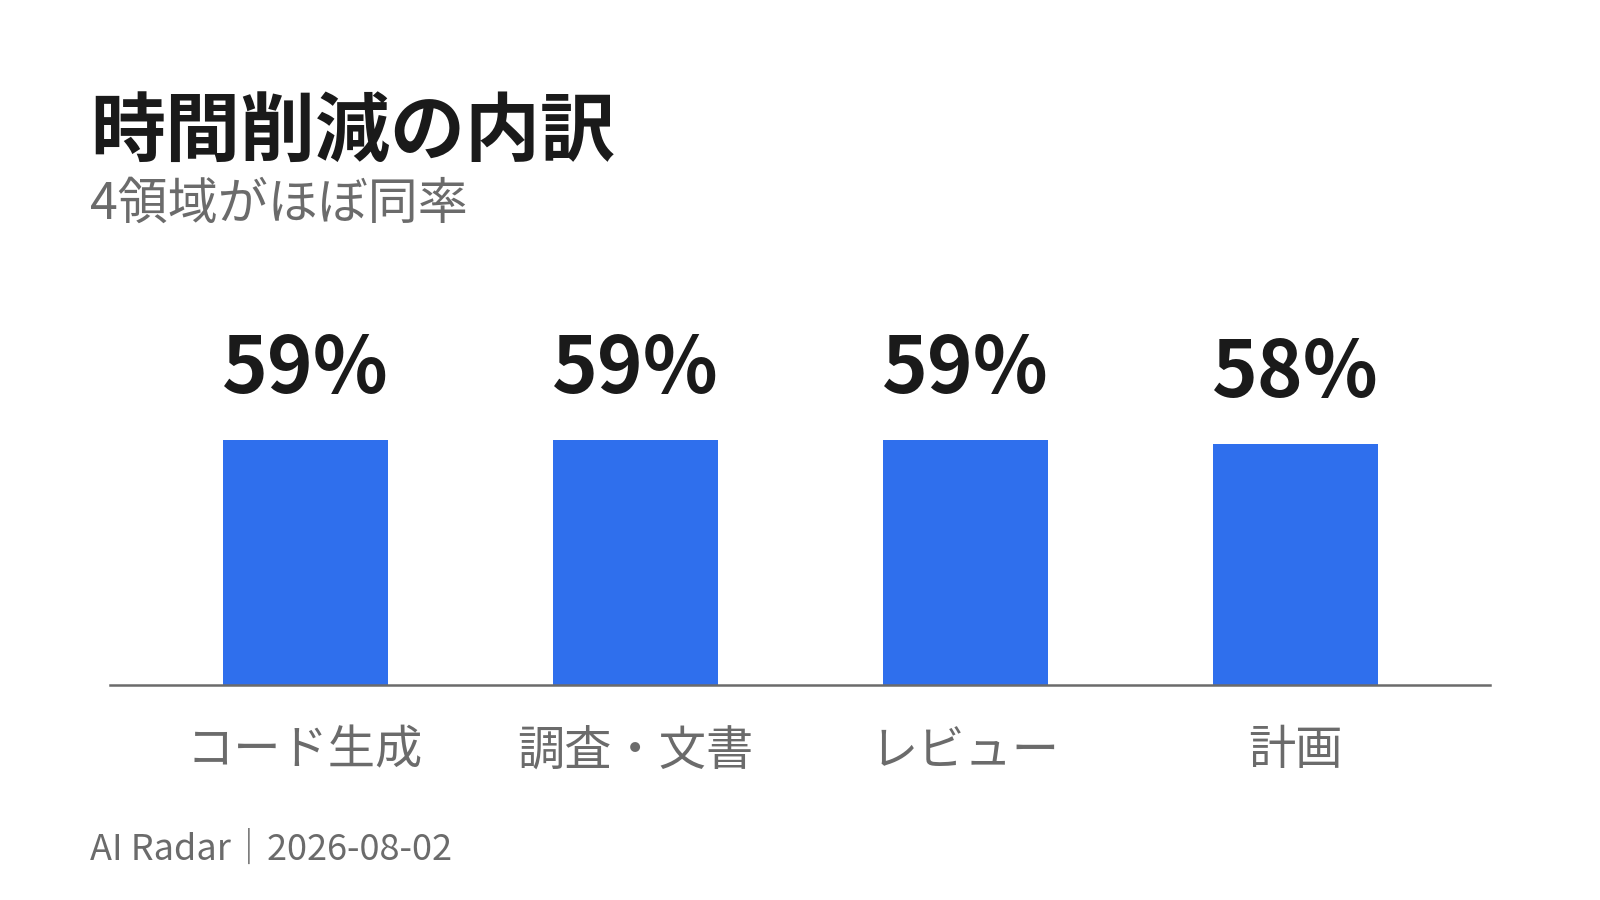
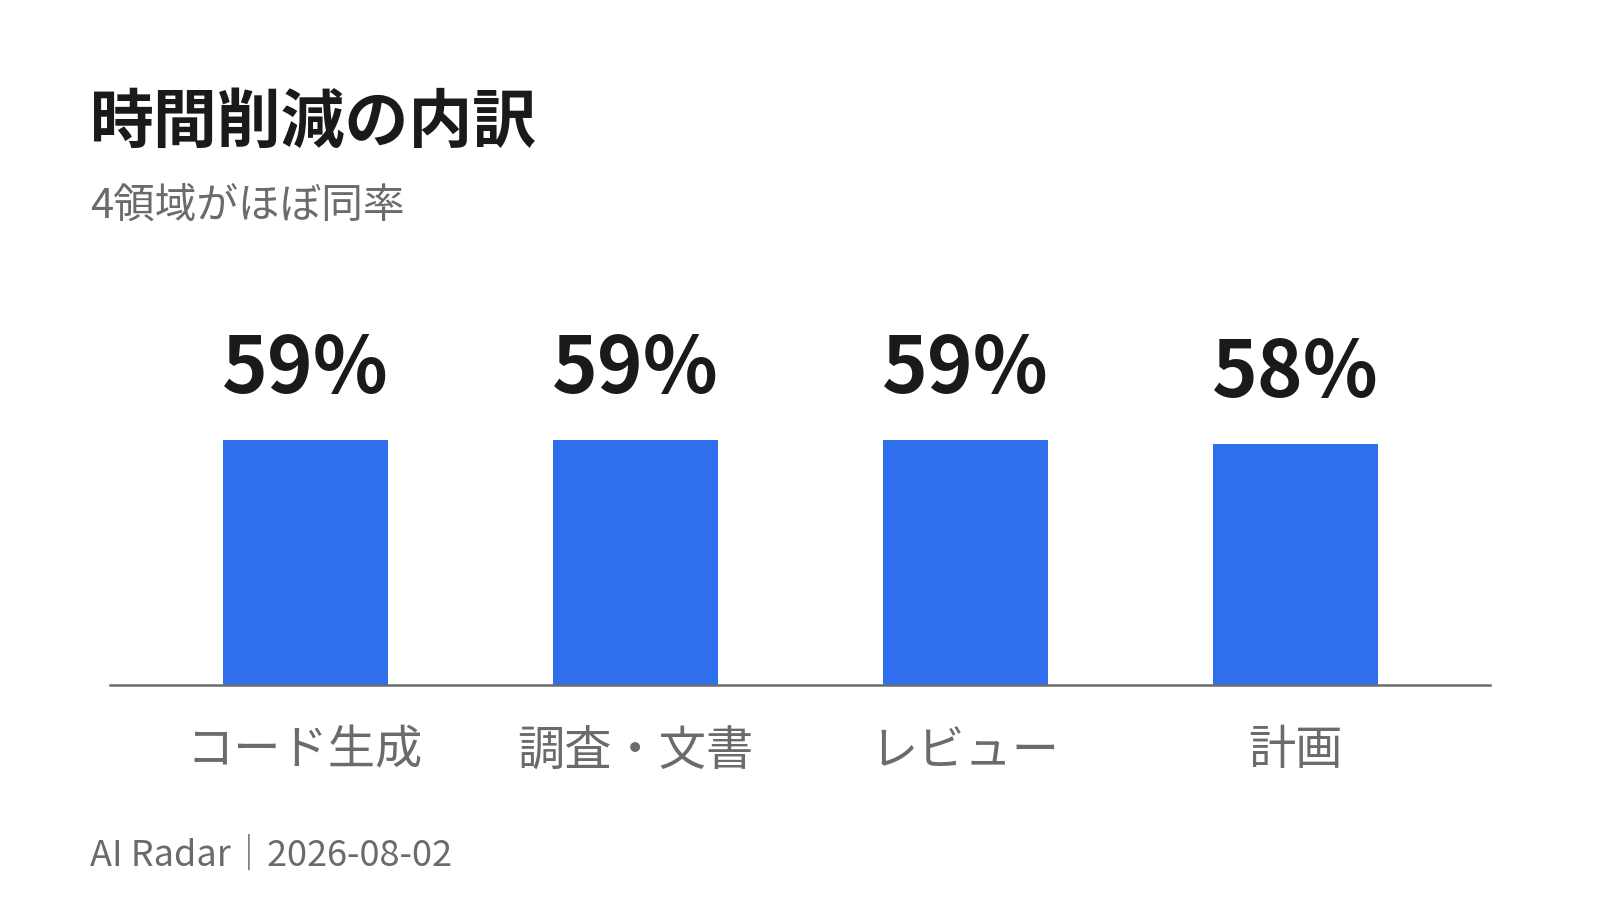
カード内の余白を実測ベースに変更し、収まらない場合は自動縮小するようにした

Changed region(s): [[0.0625, 0.0933, 0.4062, 0.2489], [0.0625, 0.9333, 0.2812, 0.9644]]

diff --git a/scripts/make_card.py b/scripts/make_card.py
@@ -66,8 +66,35 @@ REG = pick(FONT_CANDIDATES)
 BOLD = pick(BOLD_CANDIDATES)
 
 
+def put(fig, ax, x, y, s, fp, fs, color, va="top", ha="left"):
+    """テキストを置き、実際に描画された範囲を (下端, 上端) で返す。
+
+    余白を数値で決め打ちすると、文字サイズを変えたときに必ずズレる。
+    描画結果を測ってから次の要素を置くことで、間隔を確実に保つ。
+    軸は 0..W / 0..H・dpi=100 なので、データ座標1 = 1ピクセル。
+    """
+    t = ax.text(x, y, s, fontproperties=fp, fontsize=fs, color=color, va=va, ha=ha)
+    fig.canvas.draw()
+    bb = t.get_window_extent(renderer=fig.canvas.get_renderer())
+    inv = ax.transData.inverted()
+    y0 = inv.transform((bb.x0, bb.y0))[1]
+    y1 = inv.transform((bb.x1, bb.y1))[1]
+    return min(y0, y1), max(y0, y1)
+
+
+def measure(fig, ax, s, fp, fs):
+    """描画せずに文字の高さだけ測る（レイアウトを組む前の下見用）。"""
+    t = ax.text(-9999, -9999, s, fontproperties=fp, fontsize=fs)
+    fig.canvas.draw()
+    bb = t.get_window_extent(renderer=fig.canvas.get_renderer())
+    inv = ax.transData.inverted()
+    h = abs(inv.transform((bb.x1, bb.y1))[1] - inv.transform((bb.x0, bb.y0))[1])
+    t.remove()
+    return h
+
+
 def base_canvas(title, subtitle, date_str):
-    """タイトル・サブタイトル・クレジットだけ置いた土台を返す。"""
+    """タイトル・サブタイトル・クレジットを置いた土台と、本文に使える上端を返す。"""
     fig = plt.figure(figsize=(W / DPI, H / DPI), dpi=DPI, facecolor=BG)
     ax = fig.add_axes([0, 0, 1, 1])
     ax.set_xlim(0, W)
@@ -77,18 +104,15 @@ def base_canvas(title, subtitle, date_str):
 
     # スマホでは1600px幅が実質350px程度まで縮む（約0.22倍）。
     # 12px相当で読ませるには元が55pt前後必要なので、全体的に大きめに取っている。
-    title_fs, sub_fs = 54, 36
-    title_top = H - 95
+    bottom, _ = put(fig, ax, 90, H - 90, title, BOLD, 46, INK)
 
-    ax.text(90, title_top, title, fontproperties=BOLD, fontsize=title_fs,
-            color=INK, va="top", ha="left")
     if subtitle:
-        # タイトルの下端から余白を空けて置く。タイトルを大きくしたら自動で下がる
-        ax.text(90, title_top - title_fs * 1.55, subtitle, fontproperties=REG,
-                fontsize=sub_fs, color=SUB, va="top", ha="left")
-    ax.text(90, 50, f"AI Radar｜{date_str}", fontproperties=REG, fontsize=26,
-            color=SUB, va="center", ha="left")
-    return fig, ax
+        bottom, _ = put(fig, ax, 90, bottom - 30, subtitle, REG, 30, SUB)
+
+    put(fig, ax, 90, 62, f"AI Radar｜{date_str}", REG, 26, SUB)
+
+    # 本文はヘッダーの下端からさらに余白を空けた位置から始める
+    return fig, ax, bottom - 54
 
 
 def text_width(s, fontsize):
@@ -154,48 +178,70 @@ def draw_diagram(ax, nodes, hub):
             color=BG, ha="center", va="center")
 
 
-def draw_map(ax, groups):
+def draw_map(fig, ax, groups, area_top):
     """ダイジェスト号の表紙。「カテゴリ ＋ 該当番号」で中身の地図を示す。
 
     groups は "カテゴリ名|01-05|補足" の形の文字列リスト（補足は省略可）。
+    余白は決め打ちせず、直前に描いた文字の実測位置から積み上げる。
     """
     groups = groups[:4]
-    name_fs, note_fs, badge_fs = 54, 36, 32
-    # タイトルと補足の行間。グループ間の余白がこれより広くなるよう描画領域を取る
-    gap = int(name_fs * 1.35)
+    BOTTOM = 135        # クレジット表記に被らせないための下限
+    GAP_MIN = 38        # グループ同士の最小距離。これを確保できるまで文字を縮める
 
-    top, bottom = H - 320, 105
-    step = (top - bottom) / max(len(groups), 1)
+    parsed = []
+    for g in groups:
+        p = [x.strip() for x in g.split("|")]
+        parsed.append((p[0], p[1] if len(p) > 1 else "", p[2] if len(p) > 2 else ""))
 
-    for i, g in enumerate(groups):
-        parts = [p.strip() for p in g.split("|")]
-        name = parts[0]
-        rng = parts[1] if len(parts) > 1 else ""
-        note = parts[2] if len(parts) > 2 else ""
-        y = top - step * (i + 0.5)
+    n = len(parsed)
+    avail = area_top - BOTTOM
 
-        # 補足がある行は2段になるので、バッジはタイトル行の高さに合わせる
-        badge_y = y + gap / 2 if note else y
+    # 収まるまで文字を段階的に縮める。決め打ちだと件数や文字数で必ずはみ出すため
+    name_fs, note_fs, badge_fs = 50, 36, 32
+    gap_nn = 24
+    while True:
+        heights = []
+        for name, _, note in parsed:
+            h = measure(fig, ax, name, BOLD, name_fs)
+            if note:
+                h += gap_nn + measure(fig, ax, note, REG, note_fs)
+            heights.append(h)
+        need = sum(heights) + GAP_MIN * (n - 1)
+        if need <= avail or name_fs <= 28:
+            break
+        name_fs -= 2
+        note_fs = max(22, note_fs - 2)
+        badge_fs = max(20, badge_fs - 1)
+        gap_nn = max(14, gap_nn - 1)
 
+    # 余った縦幅はグループ間に均等配分する（ループで GAP_MIN 以上は確保済み）
+    gap_between = (avail - sum(heights)) / (n - 1) if n > 1 else 0
+
+    y = area_top
+
+    for (name, rng, note), _h in zip(parsed, heights):
         if rng:
             bw = text_width(rng, badge_fs) + 46
-            bh = badge_fs + 30
-            ax.add_patch(Rectangle((110, badge_y - bh / 2), bw, bh,
-                                   facecolor=ACCENT, edgecolor="none"))
-            ax.text(110 + bw / 2, badge_y, rng, fontproperties=BOLD,
-                    fontsize=badge_fs, color=BG, ha="center", va="center")
             x = 110 + bw + 36
         else:
-            x = 110
+            bw, x = 0, 110
 
+        name_bottom, name_top = put(fig, ax, x, y, name, BOLD, name_fs, INK)
+
+        if rng:
+            bh = badge_fs + 30
+            cy = (name_bottom + name_top) / 2
+            ax.add_patch(Rectangle((110, cy - bh / 2), bw, bh,
+                                   facecolor=ACCENT, edgecolor="none"))
+            ax.text(110 + bw / 2, cy, rng, fontproperties=BOLD,
+                    fontsize=badge_fs, color=BG, ha="center", va="center")
+
+        y = name_bottom
         if note:
-            ax.text(x, y + gap / 2, name, fontproperties=BOLD, fontsize=name_fs,
-                    color=INK, ha="left", va="center")
-            ax.text(x, y - gap / 2, note, fontproperties=REG, fontsize=note_fs,
-                    color=SUB, ha="left", va="center")
-        else:
-            ax.text(x, y, name, fontproperties=BOLD, fontsize=name_fs,
-                    color=INK, ha="left", va="center")
+            note_bottom, _ = put(fig, ax, x, y - gap_nn, note, REG, note_fs, SUB)
+            y = note_bottom
+
+        y -= gap_between
 
 
 def draw_list(ax, headlines):
@@ -272,12 +318,12 @@ def main():
     ap.add_argument("--out", default=None, help="出力先を明示する（項目ごとの図に使う）")
     args = ap.parse_args()
 
-    fig, ax = base_canvas(args.title, args.subtitle, args.date)
+    fig, ax, area_top = base_canvas(args.title, args.subtitle, args.date)
 
     if args.kind == "map":
         if not args.groups:
             ap.error("map には --groups が必要")
-        draw_map(ax, args.groups)
+        draw_map(fig, ax, args.groups, area_top)
     elif args.kind == "list":
         if not args.headlines:
             ap.error("list には --headlines が必要")
